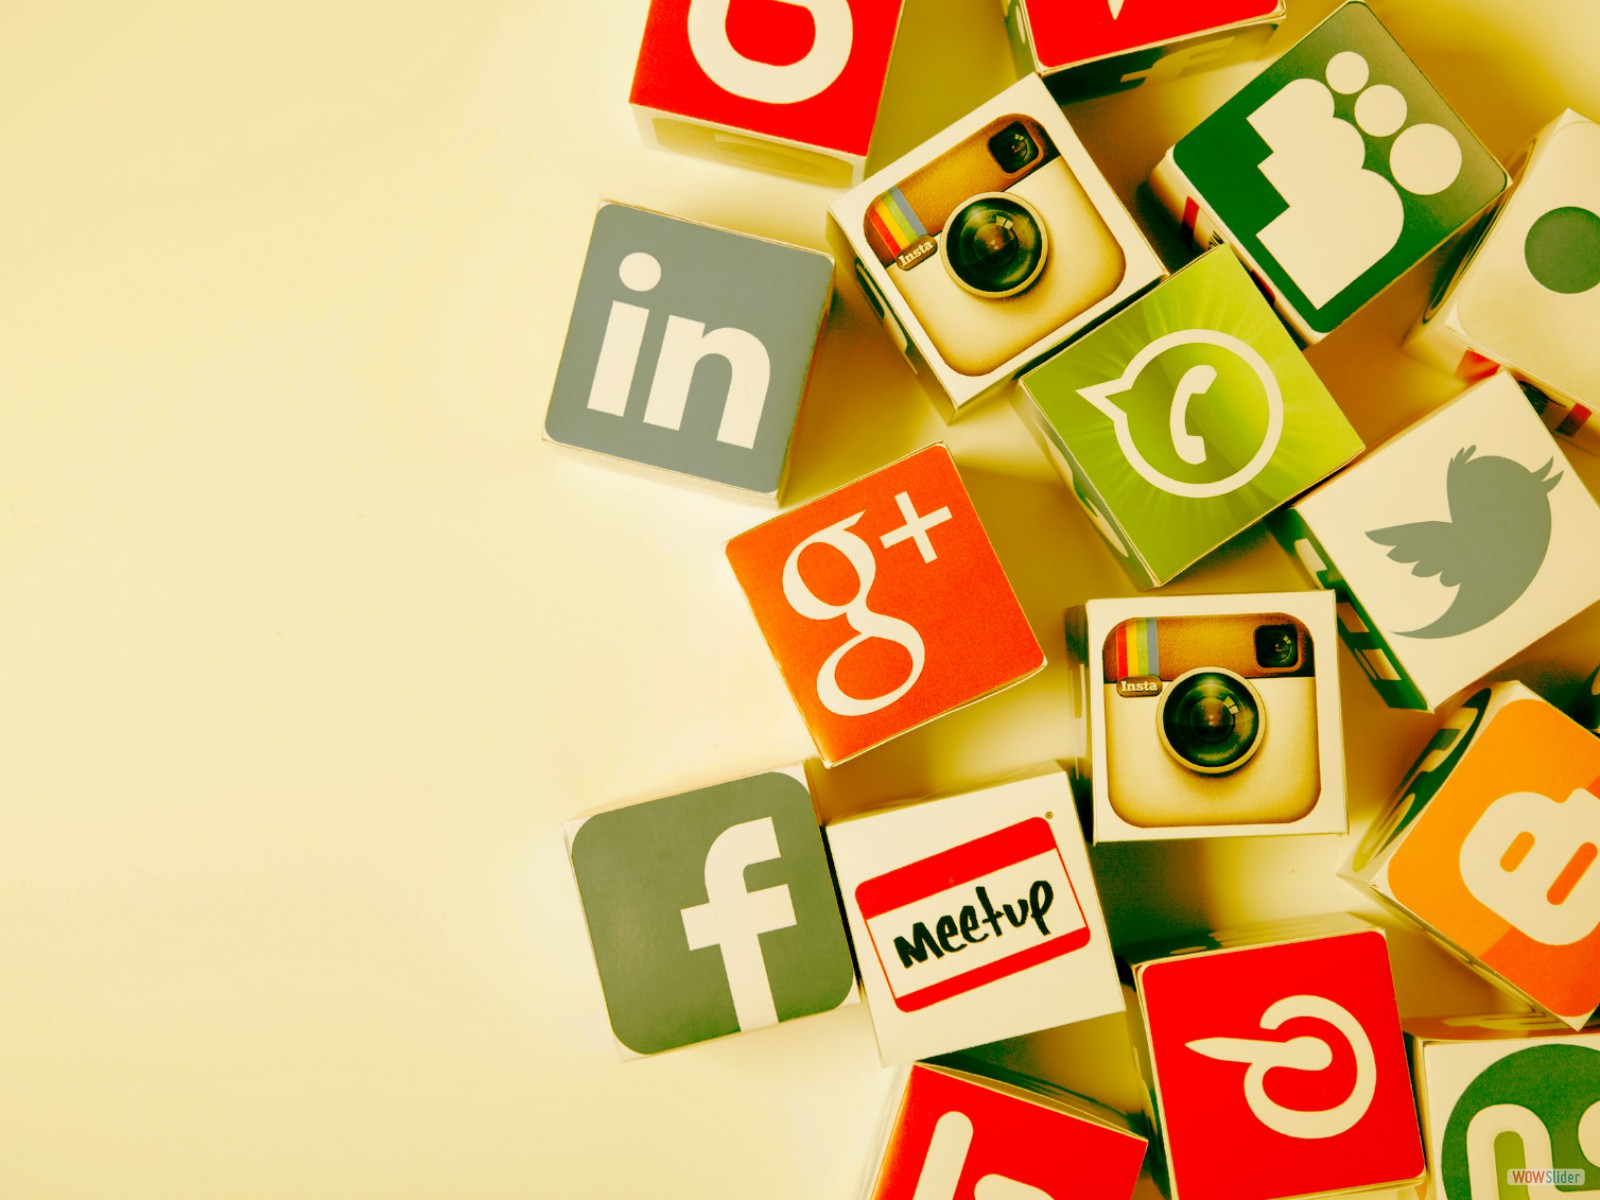
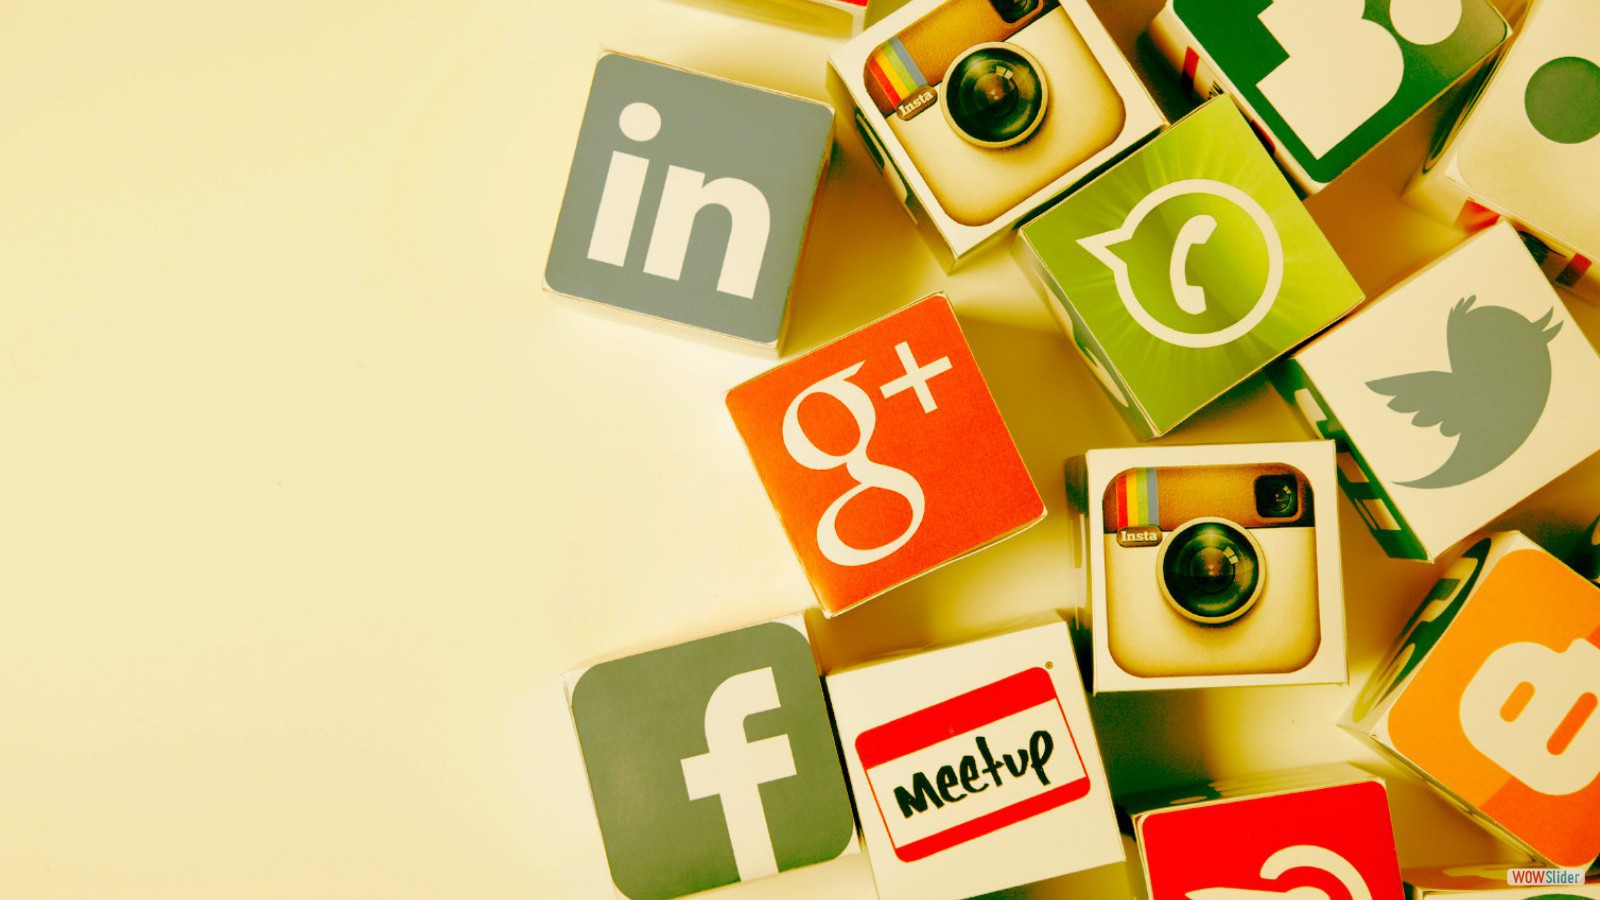
change layout

diff --git a/javascripts/engine1/script.js b/javascripts/engine1/script.js
@@ -8,7 +8,7 @@
 // Obfuscated by Javascript Obfuscator
 // http://javascript-source.com
 //***********************************************
-jQuery.extend(jQuery.easing,{easeInBack:function(e,f,a,i,h,g){if(g==undefined){g=1.70158}return i*(f/=h)*f*((g+1)*f-g)+a},easeOutBack:function(e,f,a,i,h,g){if(g==undefined){g=1.70158}return i*((f=f/h-1)*f*((g+1)*f+g)+1)+a},easeInBackQ:function(e,f,a,j,i,g){var h=(f/=i)*f;return a+j*h*(4*f*h-8*h+8*f-3)},easeOutBackQ:function(e,f,a,j,i,g){var h=(f/=i)*f;return a+j*(4*h*f*h-12*h*h+16*h*f-13*h+6*f)},easeInBackQ2:function(e,f,a,j,i,g){var h=(f/=i)*f;return a+j*h*(1.5*f*h-2.5*h+5*f-3)},easeOutBackQ2:function(e,f,a,j,i,g){var h=(f/=i)*f;return a+j*(1.5*h*f*h-5*h*h+10*h*f-12*h+6.5*f)}});function ws_brick(f,s,g){var h=jQuery,n=h(this),a=f.cols||4,r=f.rows||3,H=2.5,c=2,v=f.perspective||2000,u=g.find(".ws_list"),G=[],b=30,x={},o=h("<div>").addClass("ws_effect ws_brick").appendTo(g),q=f.support.transform&&f.support.transition&&f.support.perspective,p=/Safari/.test(navigator.userAgent)&&!/Chrome/.test(navigator.userAgent),m=/Firefox/.test(navigator.userAgent);var y=[{zIndex:0,rotateX:360,rotateZ:-360,rotateY:180,halfScale:0.5,halfLeft:0.7,halfTop:0.7,delay:0.36},{zIndex:1,rotateX:-360,rotateZ:360,rotateY:180,halfScale:0.5,halfLeft:0.2,halfTop:0.4,delay:0.81},{zIndex:1,rotateX:360,rotateZ:-360,rotateY:-180,halfScale:0.5,halfLeft:-0.2,halfTop:0.4,delay:0.45},{zIndex:0,rotateX:-360,rotateZ:360,rotateY:-180,halfScale:0.5,halfLeft:-0.7,halfTop:0.7,delay:0.63},{zIndex:1,rotateX:-360,rotateZ:360,rotateY:-180,halfScale:0.5,halfLeft:0.7,halfTop:0,delay:0.54},{zIndex:2,rotateX:360,rotateZ:-360,rotateY:180,halfScale:0.5,halfLeft:0.2,halfTop:0,delay:0.38},{zIndex:2,rotateX:360,rotateZ:-360,rotateY:-180,halfScale:0.5,halfLeft:-0.2,halfTop:0,delay:0},{zIndex:1,rotateX:-360,rotateZ:360,rotateY:180,halfScale:0.5,halfLeft:-0.7,halfTop:0,delay:0.72},{zIndex:0,rotateX:-360,rotateZ:360,rotateY:180,halfScale:0.5,halfLeft:0.7,halfTop:-0.7,delay:1},{zIndex:1,rotateX:-360,rotateZ:360,rotateY:-180,halfScale:0.5,halfLeft:0.2,halfTop:-0.4,delay:0.7},{zIndex:1,rotateX:360,rotateZ:-360,rotateY:180,halfScale:0.5,halfLeft:-0.2,halfTop:-0.4,delay:0.57},{zIndex:0,rotateX:360,rotateZ:-360,rotateY:-180,halfScale:0.5,halfLeft:-0.7,halfTop:-0.7,delay:0.9},];o.css({position:"absolute",top:0,left:0,width:g.width(),height:g.height(),transform:"translate3d(0,0,0)",transformOrigin:(f.width/2)+"px "+(f.height/2)+"px 0",perspective:v}).hide();for(var l=0;l<a*r;l++){var B=l%a,A=Math.floor(l/a);var E=h("<div>").css({position:"absolute",left:100*B/a+"%",top:100*A/r+"%",outline:"1px solid transparent",transformStyle:(p||m)?"flat":"preserve-3d",zIndex:y[l].zIndex,overflow:q?"visible":"hidden"}).appendTo(o),z=h("<div>").css({transform:"scale(1) rotateX(0) rotateY(0) translate3d(0,0,0)",outline:"1px solid transparent",transformStyle:"preserve-3d"}).appendTo(E),w=h("<div>").addClass("ws_front_image").appendTo(z),D=q?h("<div>").addClass("ws_back_image").appendTo(z):0;w.css({position:"absolute",width:"100%",height:"100%",overflow:"hidden",backfaceVisibility:"hidden",transform:"translate3d(0,0,0)"}).append(h("<img>").css({left:-B*100+"%",top:-A*100+"%",position:"absolute",outline:"1px solid transparent"}));if(q){D.css({position:"absolute",width:"100%",height:"100%",overflow:"hidden",backfaceVisibility:"hidden",transform:"rotateY(180deg) translate3d(0,0,"+b+"px)"}).append(h("<img>").css({left:-B*100+"%",top:-A*100+"%",position:"absolute",outline:"1px solid transparent"}))}var t={position:"absolute",outline:"1px solid transparent"};G[l]={part:z,front:w,back:D,wrapper:E,leftEdge:q?h("<div>").addClass("ws_left_edge").css(t).appendTo(z):0,rightEdge:q?h("<div>").addClass("ws_right_edge").css(t).appendTo(z):0,topEdge:q?h("<div>").addClass("ws_top_edge").css(t).appendTo(z):0,bottomEdge:q?h("<div>").addClass("ws_bottom_edge").css(t).appendTo(z):0}}function C(N){var J={},L=s.get(N),O=f.width/a,P=f.height/r;for(var K=0;K<a*r;K++){var N=K%a,M=Math.floor(K/a);J[K]=F(L,{x:N*O,y:M*P,w:O,h:P})}return J}function I(J,M,j,K,L){for(var i in M){if(typeof G[i]!=="function"){M[i].topEdge.css({width:K,height:J,background:j[i],transform:"rotateX(90deg) translate3d(0,-"+J/2+"px,"+J/2+"px)"});M[i].bottomEdge.css({width:K,height:J,background:j[i],transform:"rotateX(90deg) translate3d(0,-"+J/2+"px,"+(-L+J/2)+"px)"});M[i].leftEdge.css({width:J,height:L,background:j[i],transform:"rotateY(90deg) translate3d("+J/2+"px,0,-"+J/2+"px)"});M[i].rightEdge.css({width:J,height:L,background:j[i],transform:"rotateY(90deg) translate3d("+J/2+"px,0,"+(K-J/2)+"px)"})}}}function e(J,K){var i=0;for(var j in J){if(typeof J[j]!=="function"){(function(L,M){wowAnimate(function(O){var U,S,T,R="",N={};if(O<=0.5){U=h.easing.easeInBack(1,O*2,0,1,1,1).toFixed(3);S=h.easing.easeInBackQ(1,O*2,0,1,1,1).toFixed(3);T=h.easing.easeInBackQ2(1,O*2,0,1,1,1).toFixed(3);M[L].back.css("backfaceVisibility","hidden")}else{U=h.easing.easeOutBack(1,(O-0.5)*2,0,1,1,1).toFixed(3);S=h.easing.easeOutBackQ(1,(O-0.5)*2,0,1,1,1).toFixed(3);T=h.easing.easeOutBackQ2(1,(O-0.5)*2,0,1,1,1).toFixed(3);M[L].back.css("backfaceVisibility","visible")}for(var P in M[L].animate[O<=0.5?"half":"end"]){var V=M[L].animate[O<=0.5?"begin":"half"][P]||0,Q=M[L].animate[O<=0.5?"half":"end"][P]||0;if(typeof Q!=="object"){if(P==="scale"||P==="rotateX"||P==="rotateY"){Q=V+(Q-V)*S}else{if(P==="left"||P==="top"){Q=V+(Q-V)*T}else{Q=V+(Q-V)*U}}}if(P==="rotateX"||P==="rotateY"||P==="rotateZ"){R+=P+"("+Q+"deg) "}else{if(P==="scale"){R+=P+"("+Q+") "}else{if(P==="translate3d"){R+=P+"("+(V[0]+(Q[0]-V[0])*U).toFixed(3)+"px,"+(V[1]+(Q[1]-V[1])*U).toFixed(3)+"px,"+(V[2]+(Q[2]-V[2])*U).toFixed(3)+"px) "}else{N[P]=Q}}}}M[L].wrapper.css({transform:"translate3d("+(N.left?N.left:0).toFixed(3)+"px,"+(N.top?N.top:0).toFixed(3)+"px,0)"});delete N.left;delete N.top;if(R){N.transform=R}M[L].part.css(N)},0,1,M[L].animate.duration,M[L].animate.delay,function(){i++;if(i==M.length&&K){K()}})}(j,J))}}}function k(aa,M,N,P){var X=g.width(),W=g.height(),V=X/a,U=W/r,L=(f.duration*0.4)>1000?1000:(f.duration*0.4),K=f.duration*0.6,Q=[0,0];I(b,aa,x[M],V,U);o.css({transformOrigin:(X/2)+"px "+(W/2)+"px 0",width:X,height:W});for(var S in aa){if(typeof aa[S]!=="function"){var J=y[S].delay*L;if(Q[1]<=J){Q[0]=S;Q[1]=J}aa[S].part[0].ws_delay=[J,0]}}aa[Q[0]].part[0].ws_delay[1]=1;for(var S in aa){if(typeof aa[S]!=="function"){var R=aa[S],Z=S%a,Y=Math.floor(S/a),T=X*Z/a,O=W*Y/r;R.animate={delay:R.part[0].ws_delay[0],duration:K,begin:{left:0,top:0,width:V,height:U,scale:1,rotateX:0,rotateY:0,translate3d:[0,0,p?b:0]},half:{left:y[S].halfLeft*V,top:y[S].halfTop*U,scale:y[S].halfScale,rotateX:y[S].rotateX/2,rotateY:y[S].rotateY/2,translate3d:[0,0,(p?1:0.5)*b]},end:{left:0,top:0,scale:1,rotateX:y[S].rotateX,rotateY:y[S].rotateY,translate3d:[0,0,b]}};R.front.find("img").css(N);R.back.css("backfaceVisibility","hidden").find("img").css(N);R.part.css({width:R.animate.begin.width,height:R.animate.begin.height,left:R.animate.begin.left,top:R.animate.begin.top})}}e(aa,P)}var d;this.go=function(X,M){if(d){return M}o.show();var K=h(s.get(M));K={width:K.width(),height:K.height(),marginTop:parseFloat(K.css("marginTop")),marginLeft:parseFloat(K.css("marginLeft"))};if(q){G[0].front.find("img").on("load",function(){u.hide()});for(var N in G){if(typeof G[N]!=="function"){G[N].front.find("img").attr("src",s.get(M).src);G[N].back.find("img").attr("src",s.get(X).src)}}if(!x[M]){x[M]=C(M)}d=new k(G,M,K,function(){u.show();n.trigger("effectEnd");o.hide();for(var i in G){if(typeof G[i]!=="function"){G[i].part.css({transition:"",transform:"rotateX(0) rotateY(0) translate3d(0,0,0)"})}}d=0})}else{d=true;function Y(j,i){return Math.random()*(i-j+1)+j}var T=g.width(),W=g.height(),S=T/a,V=W/r,L=T-S*(a-1),U=W-V*(r-1);o.css({width:T,height:W});var J=0;for(var N in G){var R=N%a,P=Math.floor(N/a);G[N].front.find("img").attr("src",s.get(X).src).css(K);var Z=f.duration*(1-Math.abs((c*H-R*P)/(2*r*a)));var Q=Y(-1,1)>0?1:-1;var O=Y(-1,1)>0?1:-1;G[N].wrapper.css({width:S,height:V});G[N].part.css({position:"absolute",top:Q*V,left:O*S,opacity:0,width:S,height:V}).animate({top:0,left:0,opacity:1},Z,function(){J++;if(J==r*a){u.stop(1,1);d=false;n.trigger("effectEnd")}})}}};function F(S,J){J=J||{};var U=1,M=J.exclude||[],R;var O=document.createElement("canvas"),L=O.getContext("2d"),K=O.width=S.naturalWidth,Y=O.height=S.naturalHeight;L.drawImage(S,0,0,S.naturalWidth,S.naturalHeight);try{R=L.getImageData(J.x?J.x:0,J.y?J.y:0,J.w?J.w:S.width,J.h?J.h:S.height)["data"]}catch(T){console.log("error:unable to access image data: "+T);return"#ccc"}var N=(J.w?J.w:S.width*J.h?J.h:S.height)||R.length,P={},W="",V=[],j={dominant:{name:"",count:0}};var Q=0;while(Q<N){V[0]=R[Q];V[1]=R[Q+1];V[2]=R[Q+2];W=V.join(",");if(W in P){P[W]=P[W]+1}else{P[W]=1}if(M.indexOf(["rgb(",W,")"].join(""))===-1){var X=P[W];if(X>j.dominant.count){j.dominant.name=W;j.dominant.count=X}}Q+=U*4}return["rgb(",j.dominant.name,")"].join("")}};// -----------------------------------------------------------------------------------
+jQuery.extend(jQuery.easing,{easeInOutSine:function(j,i,b,c,d){return -c/2*(Math.cos(Math.PI*i/d)-1)+b}});function ws_domino(m,i,k){$=jQuery;var h=$(this);var c=m.columns||5,l=m.rows||2,d=m.centerRow||2,g=m.centerColumn||2;var f=$("<div>").addClass("ws_effect ws_domino").css({position:"absolute",width:"100%",height:"100%",top:0,overflow:"hidden"}).appendTo(k);var b=$("<div>").addClass("ws_zoom").appendTo(f);var j=$("<div>").addClass("ws_parts").appendTo(f);var e=k.find(".ws_list");var a;this.go=function(y,x){function z(){j.find("img").stop(1,1);j.empty();b.empty();a=0}z();var s=$(i.get(x));s={width:s.width(),height:s.height(),marginTop:parseFloat(s.css("marginTop")),marginLeft:parseFloat(s.css("marginLeft"))};var D=$(i.get(x)).clone().appendTo(b).css({position:"absolute",top:0,left:0}).css(s);var p=f.width();var o=f.height();var w=Math.floor(p/c);var v=Math.floor(o/l);var t=p-w*(c-1);var E=o-v*(l-1);function I(L,K){return Math.random()*(K-L+1)+L}e.hide();var u=[];for(var C=0;C<l;C++){u[C]=[];for(var B=0;B<c;B++){var q=m.duration*(1-Math.abs((d*g-C*B)/(2*l*c)));var F=B<c-1?w:t;var n=C<l-1?v:E;u[C][B]=$("<div>").css({width:F,height:n,position:"absolute",top:C*v,left:B*w,overflow:"hidden"});var H=I(C-2,C+2);var G=I(B-2,B+2);u[C][B].appendTo(j);var J=$(i.get(y)).clone().appendTo(u[C][B]).css(s);var A={top:-H*v,left:-G*w,opacity:0};var r={top:-C*v,left:-B*w,opacity:1};if(m.support.transform&&m.support.transition){A.translate=[A.left,A.top,0];r.translate=[r.left,r.top,0];delete A.top;delete A.left;delete r.top;delete r.left}wowAnimate(J.css({position:"absolute"}),A,r,q,"easeInOutSine",function(){a++;if(a==l*c){z();e.stop(1,1);h.trigger("effectEnd")}})}}wowAnimate(D,{scale:1},{scale:1.6},m.duration,m.duration*0.2,"easeInOutSine")}};// -----------------------------------------------------------------------------------
 // http://wowslider.com/
 // JavaScript Wow Slider is a free software that helps you easily generate delicious 
 // slideshows with gorgeous transition effects, in a few clicks without writing a single line of code.
@@ -18,4 +18,4 @@ jQuery.extend(jQuery.easing,{easeInBack:function(e,f,a,i,h,g){if(g==undefined){g
 // Obfuscated by Javascript Obfuscator
 // http://javascript-source.com
 //***********************************************
-jQuery("#wowslider-container1").wowSlider({effect:"brick",prev:"",next:"",duration:23*100,delay:11*100,width:1024,height:768,autoPlay:true,autoPlayVideo:false,playPause:false,stopOnHover:false,loop:false,bullets:0,caption:false,captionEffect:"parallax",controls:false,controlsThumb:false,responsive:2,fullScreen:false,gestures:2,onBeforeStep:0,images:0});
+jQuery("#wowslider-container1").wowSlider({effect:"domino",prev:"",next:"",duration:20*100,delay:20*100,width:640,height:360,autoPlay:true,autoPlayVideo:false,playPause:false,stopOnHover:false,loop:false,bullets:0,caption:false,captionEffect:"parallax",controls:false,controlsThumb:false,responsive:2,fullScreen:false,gestures:2,onBeforeStep:0,images:0});

diff --git a/javascripts/engine1/style.css b/javascripts/engine1/style.css
@@ -22,7 +22,7 @@
 	position: relative;
 	width: 100%;
 	max-width: 100%;
-	max-height:768px;
+	max-height:360px;
 	margin:0px auto 0px;
 	z-index:90;
 	text-align:left; /* reset align=center */
@@ -34,7 +34,7 @@
 	-moz-box-sizing: content-box;
 	box-sizing: content-box; 
 }
-* html #wowslider-container1{ width:1024px }
+* html #wowslider-container1{ width:640px }
 #wowslider-container1 .ws_images ul{
 	position:relative;
 	width: 10000%; 
@@ -64,7 +64,7 @@
 	left:0;
 	top:0;
 	height:100%;
-	max-height:768px;
+	max-height:360px;
 	max-width: 100%;
 	vertical-align: top;
 	border:none;
@@ -73,7 +73,7 @@
 #wowslider-container1 .ws_images ul a{
 	width:100%;
 	height:100%;
-	max-height:768px;
+	max-height:360px;
 	display:block;
 	color:transparent;
 }
@@ -89,7 +89,7 @@
 	margin:0;
 }
 #wowslider-container1 .ws_images > div > img {
-	max-height:768px;
+	max-height:360px;
 }
 
 #wowslider-container1 .ws_images iframe {
@@ -242,7 +242,7 @@
 	content: '';
 	display: block;
 	height:100%;
-	background: #000000;
+	background: #54acd2;
 
   	-webkit-transform: rotateX(-90deg) translateZ(-8px) translateY(8px);
   	transform: rotateX(-90deg) translateZ(-8px) translateY(8px);
@@ -318,7 +318,7 @@
 	text-align: center;
 	line-height: 2.5em;
 	height:100%;
-	background: #000000;
+	background: #54acd2;
 	color: #1A2223;
 
   	-webkit-transform: rotateX(-90deg) translateZ(-1.25em) translateY(1.25em);
@@ -352,7 +352,7 @@
   	-webkit-transform: rotateX(0deg);
   	transform: rotateX(0deg);
   	background: #1A2223;
-	color: #000000;
+	color: #54acd2;
 }
 
 #wowslider-container1 a.ws_next:hover > span,
@@ -384,7 +384,7 @@
 	display:inline-block;
 	padding: 0.1em 0.6em;
 	background-color: #1A2223;
-	color: #000000;
+	color: #54acd2;
 }
 #wowslider-container1 .ws-title div{
 	display:block;
@@ -395,13 +395,13 @@
 	text-transform: uppercase;	
 	font-size: 2em;
 }#wowslider-container1 .ws_images > ul{
-	animation: wsBasic 13.6s infinite;
-	-moz-animation: wsBasic 13.6s infinite;
-	-webkit-animation: wsBasic 13.6s infinite;
+	animation: wsBasic 16s infinite;
+	-moz-animation: wsBasic 16s infinite;
+	-webkit-animation: wsBasic 16s infinite;
 }
-@keyframes wsBasic{0%{left:-0%} 8.09%{left:-0%} 25%{left:-100%} 33.09%{left:-100%} 50%{left:-200%} 58.09%{left:-200%} 75%{left:-300%} 83.09%{left:-300%} }
-@-moz-keyframes wsBasic{0%{left:-0%} 8.09%{left:-0%} 25%{left:-100%} 33.09%{left:-100%} 50%{left:-200%} 58.09%{left:-200%} 75%{left:-300%} 83.09%{left:-300%} }
-@-webkit-keyframes wsBasic{0%{left:-0%} 8.09%{left:-0%} 25%{left:-100%} 33.09%{left:-100%} 50%{left:-200%} 58.09%{left:-200%} 75%{left:-300%} 83.09%{left:-300%} }
+@keyframes wsBasic{0%{left:-0%} 12.5%{left:-0%} 25%{left:-100%} 37.5%{left:-100%} 50%{left:-200%} 62.5%{left:-200%} 75%{left:-300%} 87.5%{left:-300%} }
+@-moz-keyframes wsBasic{0%{left:-0%} 12.5%{left:-0%} 25%{left:-100%} 37.5%{left:-100%} 50%{left:-200%} 62.5%{left:-200%} 75%{left:-300%} 87.5%{left:-300%} }
+@-webkit-keyframes wsBasic{0%{left:-0%} 12.5%{left:-0%} 25%{left:-100%} 37.5%{left:-100%} 50%{left:-200%} 62.5%{left:-200%} 75%{left:-300%} 87.5%{left:-300%} }
 
 #wowslider-container1 .ws_bulframe div div{
 	height: auto;

diff --git a/home.html b/home.html
@@ -497,9 +497,6 @@ $( document ).ready(function() {
 				
 		
 
-});
-	</script>
-	<script>
 
 function bright(x)
 {
@@ -554,6 +551,8 @@ function change()
     	document.getElementById('signup-next').style.display="block";
     }
 */
+});
+});
 </script>
 
 <body>
@@ -759,12 +758,6 @@ function change()
 </div>
 <p style="font-size:16px;letter-spacing:2px;">example for the cschedule chatbox</p>
 </div>
-
-	<div class="street_view" style="background-image:url(street.jpg);background-repeat:no-repeat;background-size: 100% 100%;">
-		<!--<div class="street-up">change your idea</div>
-		<div class="street">make difference today</div>
-		<div class="street-down">create new trend</div>-->
-	</div>
 
 </div>
 
